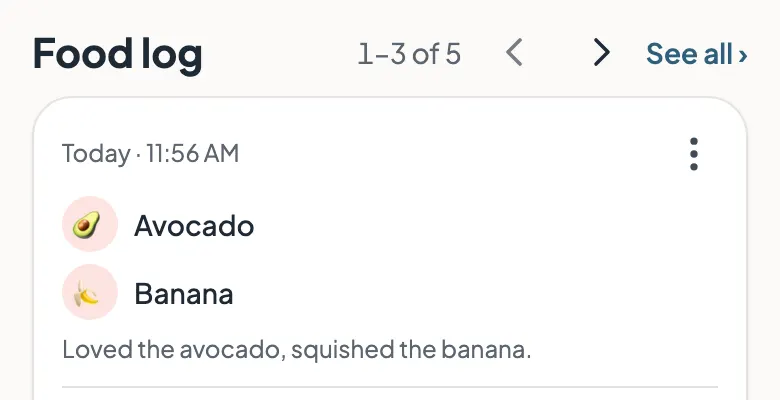
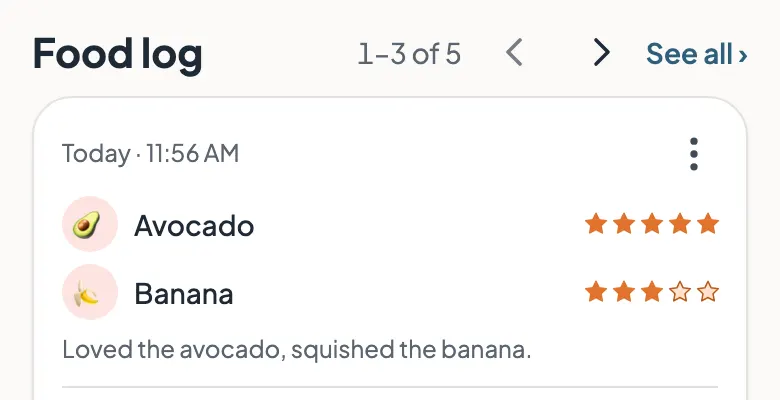
Food log stars sit off the card edge; meal-5-saved retaken (ledger 966)
Measured live: the read-only stars ended 4-6px from the card's right
border (the kebab's slim padding). mr-2 holds them about as far from
the right as the card's text is from the left (12-15px), at 390 and
320, light and dark, with no overlap of a long wrapping name.

The guide image meal-5-saved (light + dark) is retaken on the same made-
up data and crop as before (780x400): its Food log card now shows
Avocado's five stars and Banana's three. Alt text unchanged.

Changed region(s): [[0.7385, 0.69, 0.9231, 0.75], [0.7385, 0.54, 0.9231, 0.6]]

diff --git a/client/src/features/tracking/components/ServeLogList.test.ts b/client/src/features/tracking/components/ServeLogList.test.ts
@@ -293,7 +293,7 @@ describe("MealCard lines (CD-Food-Log, ledger 902)", () => {
     const [recipe, container, egg] = lisOf(html);
     // The recipe (5): one image at the end of its row, five small filled stars.
     expect(recipe!.attrs).toBe('class="flex items-center gap-2 py-[3px]"');
-    const stars = /<span role="img" aria-label="Rated 5 stars" class="flex shrink-0 ml-auto">([\s\S]*?)<\/span><\/li>$/.exec(`<li ${recipe!.attrs}>${recipe!.inner}</li>`);
+    const stars = /<span role="img" aria-label="Rated 5 stars" class="flex shrink-0 ml-auto mr-2">([\s\S]*?)<\/span><\/li>$/.exec(`<li ${recipe!.attrs}>${recipe!.inner}</li>`);
     expect(stars).not.toBeNull();
     expect(stars![1]!.match(/<svg aria-hidden="true" width="14" height="14"/g)).toHaveLength(5);
     expect(stars![1]!.match(/fill-current/g)).toHaveLength(5);
@@ -304,7 +304,7 @@ describe("MealCard lines (CD-Food-Log, ledger 902)", () => {
     // The container of two: no stars on its own row; its rated Broccoli (4)
     // gets a line of its own under the name, its unrated Carrot none.
     expect(rowOf(container!.inner)).not.toContain('role="img"');
-    const parts = [...container!.inner.matchAll(/<div class="flex items-center gap-2 pl-9 text-xs text-\[var\(--color-text-muted\)\]"><span class="min-w-0 break-words">([^<]*)<\/span><span role="img" aria-label="([^"]*)" class="flex shrink-0 ml-auto">([\s\S]*?)<\/span><\/div>/g)];
+    const parts = [...container!.inner.matchAll(/<div class="flex items-center gap-2 pl-9 text-xs text-\[var\(--color-text-muted\)\]"><span class="min-w-0 break-words">([^<]*)<\/span><span role="img" aria-label="([^"]*)" class="flex shrink-0 ml-auto mr-2">([\s\S]*?)<\/span><\/div>/g)];
     expect(parts.map((m) => [m[1], m[2], m[3]!.match(/fill-current/g)?.length])).toEqual([["Broccoli", "Rated 4 stars", 4]]);
     // Nothing to tap: no star buttons, and all of it inside the card's Edit link.
     expect(html).not.toContain('role="radio"');
@@ -329,7 +329,7 @@ describe("MealCard lines (CD-Food-Log, ledger 902)", () => {
     };
     const [line] = lisOf(renderMealCard(meal).replace(/<!-- -->/g, ""));
     expect(line!.attrs).toBe('class="flex items-center gap-2 py-[3px]"');
-    expect(line!.inner).toMatch(/>Broccoli<\/span><span role="img" aria-label="Rated 1 star" class="flex shrink-0 ml-auto">/);
+    expect(line!.inner).toMatch(/>Broccoli<\/span><span role="img" aria-label="Rated 1 star" class="flex shrink-0 ml-auto mr-2">/);
     expect(line!.inner.match(/fill-current/g)).toHaveLength(1);
     // No ratings at all (a cached body from before items): no stars.
     expect(renderMealCard(baseMeal)).not.toContain('role="img"');

diff --git a/client/src/features/tracking/components/ServeLogList.tsx b/client/src/features/tracking/components/ServeLogList.tsx
@@ -95,6 +95,10 @@ export function MealDeleteDialog({ meal, babyId, open, onClose }: MealDeleteDial
   );
 }
 
+/** Ledger 966: a line's stars at its end, held off the card's right edge
+ * about as far as its text is from the left (the kebab's padding is less). */
+const STARS_AT_END = "ml-auto mr-2";
+
 export interface MealCardProps {
   meal: MealItem;
   /** Asks to delete this meal — the list owns the one `MealDeleteDialog`. */
@@ -129,7 +133,7 @@ export function MealCard({ meal, onRequestDelete, grouped = false }: MealCardPro
               {line.name}
               <DeletedMark deleted={line.deleted} />
             </span>
-            {own !== null && <StarRatingShown value={own} className="ml-auto" />}
+            {own !== null && <StarRatingShown value={own} className={STARS_AT_END} />}
           </>
         );
         return parts.length === 0 ? (
@@ -146,7 +150,7 @@ export function MealCard({ meal, onRequestDelete, grouped = false }: MealCardPro
                   {part.label}
                   <DeletedMark deleted={part.deleted} />
                 </span>
-                <StarRatingShown value={part.rating!} className="ml-auto" />
+                <StarRatingShown value={part.rating!} className={STARS_AT_END} />
               </div>
             ))}
           </li>
